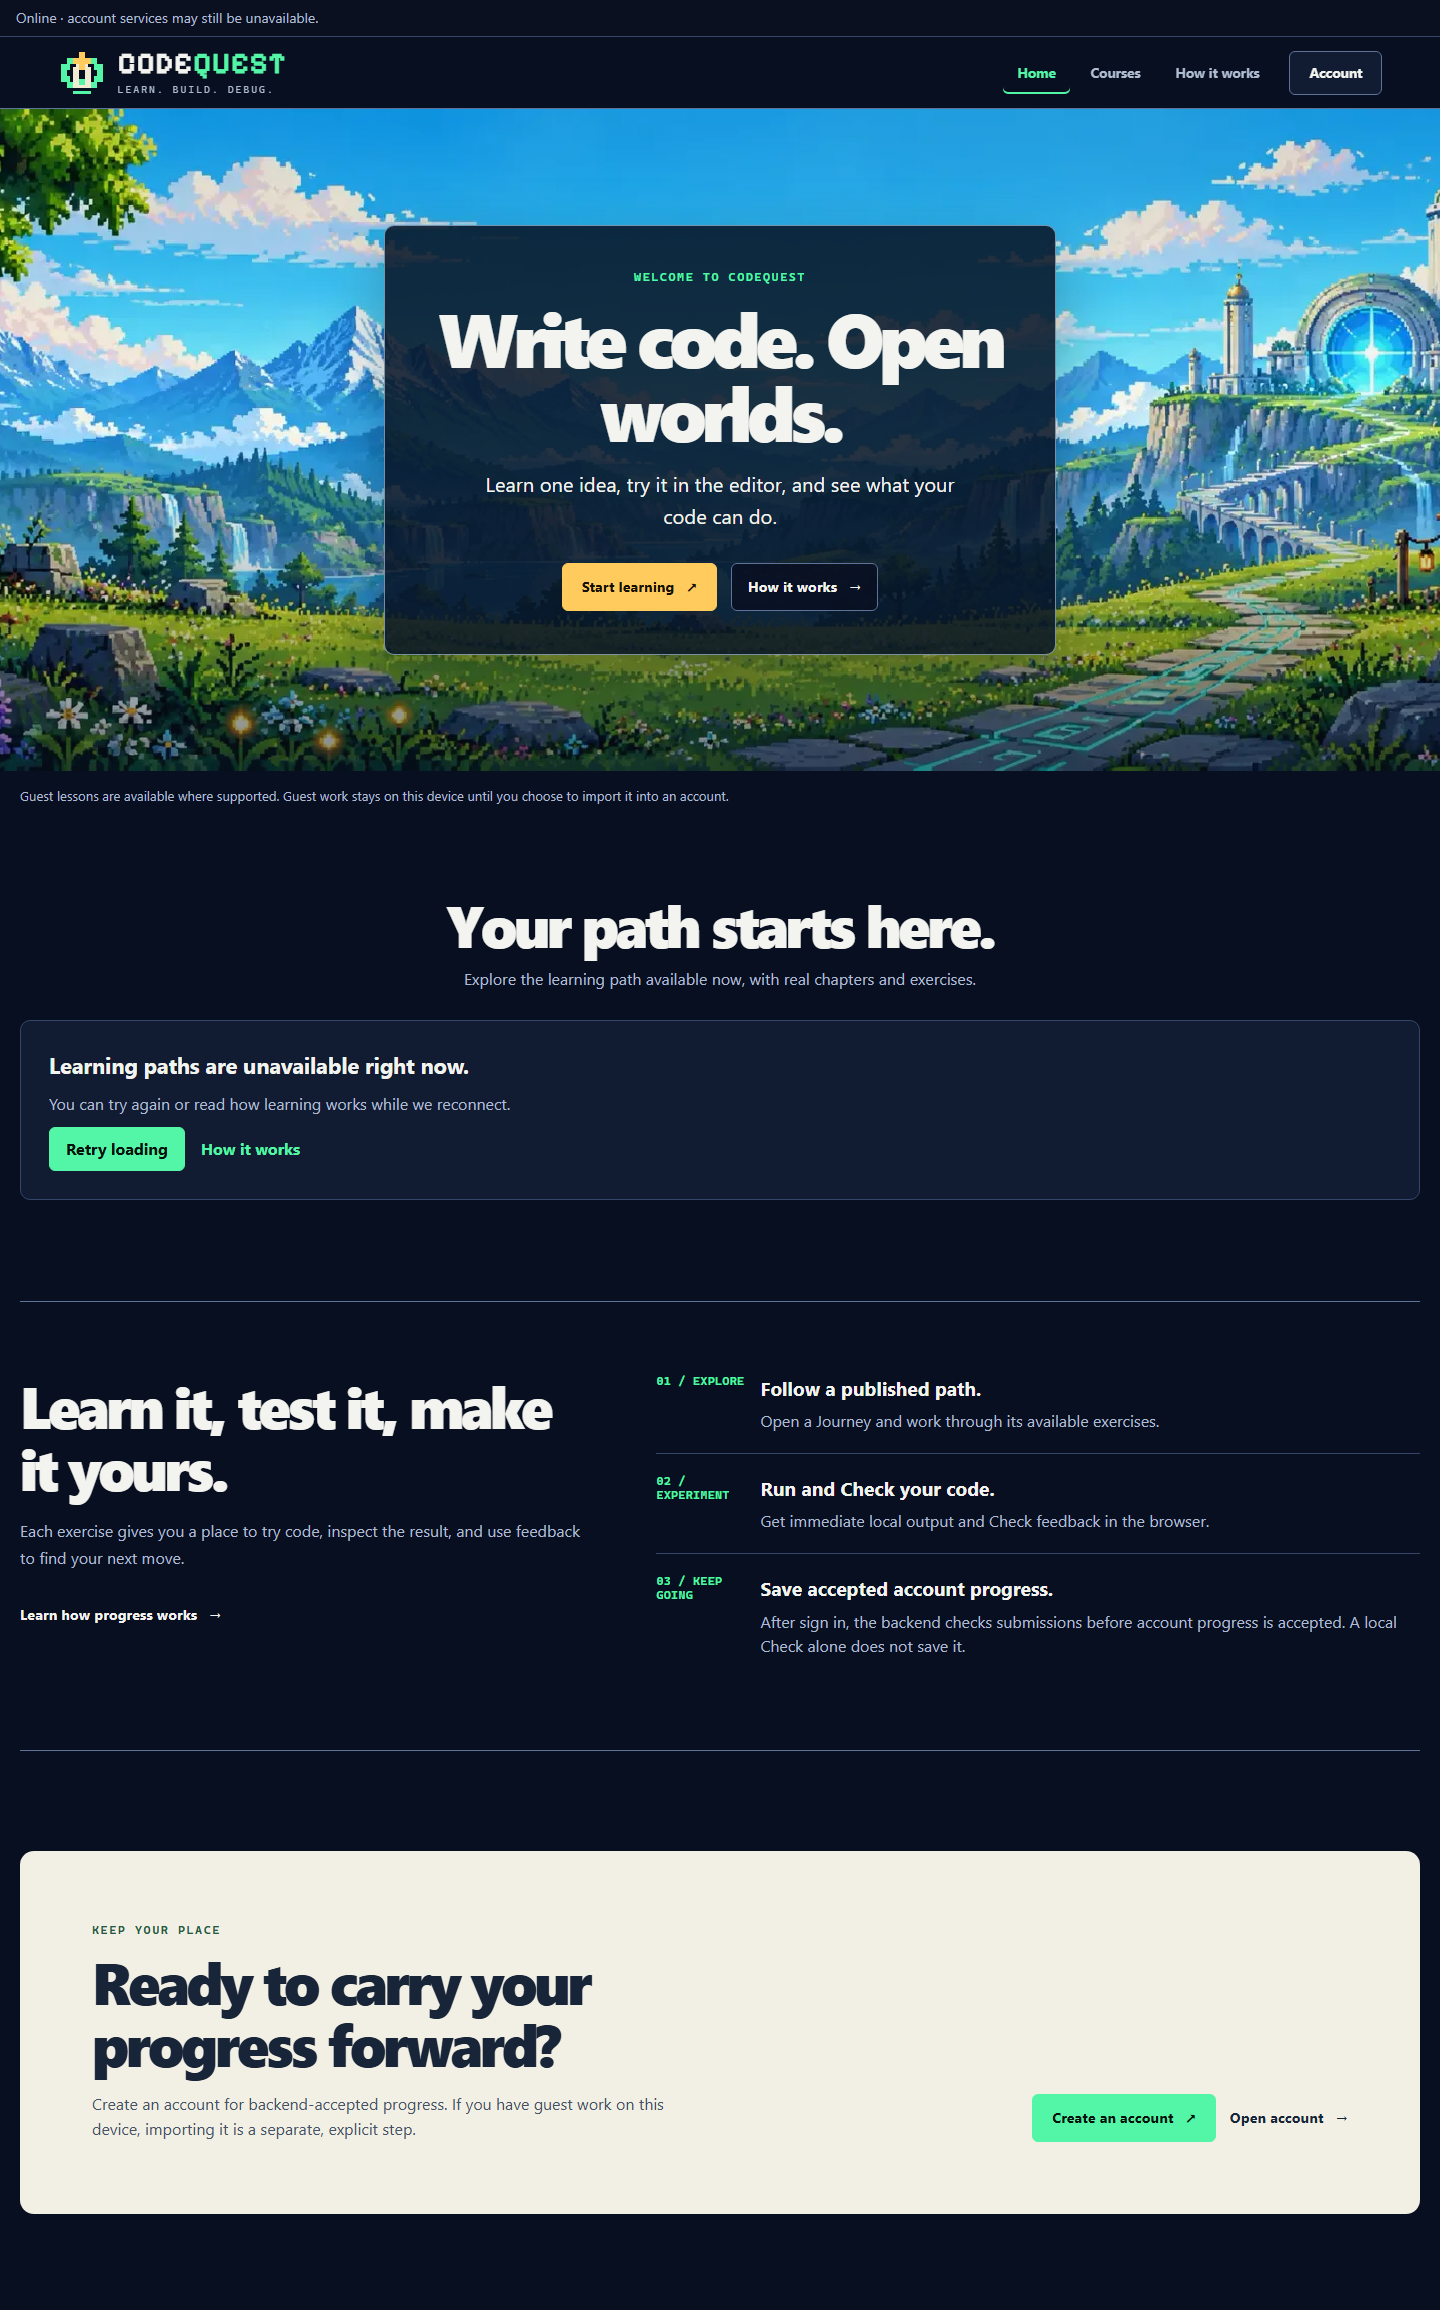
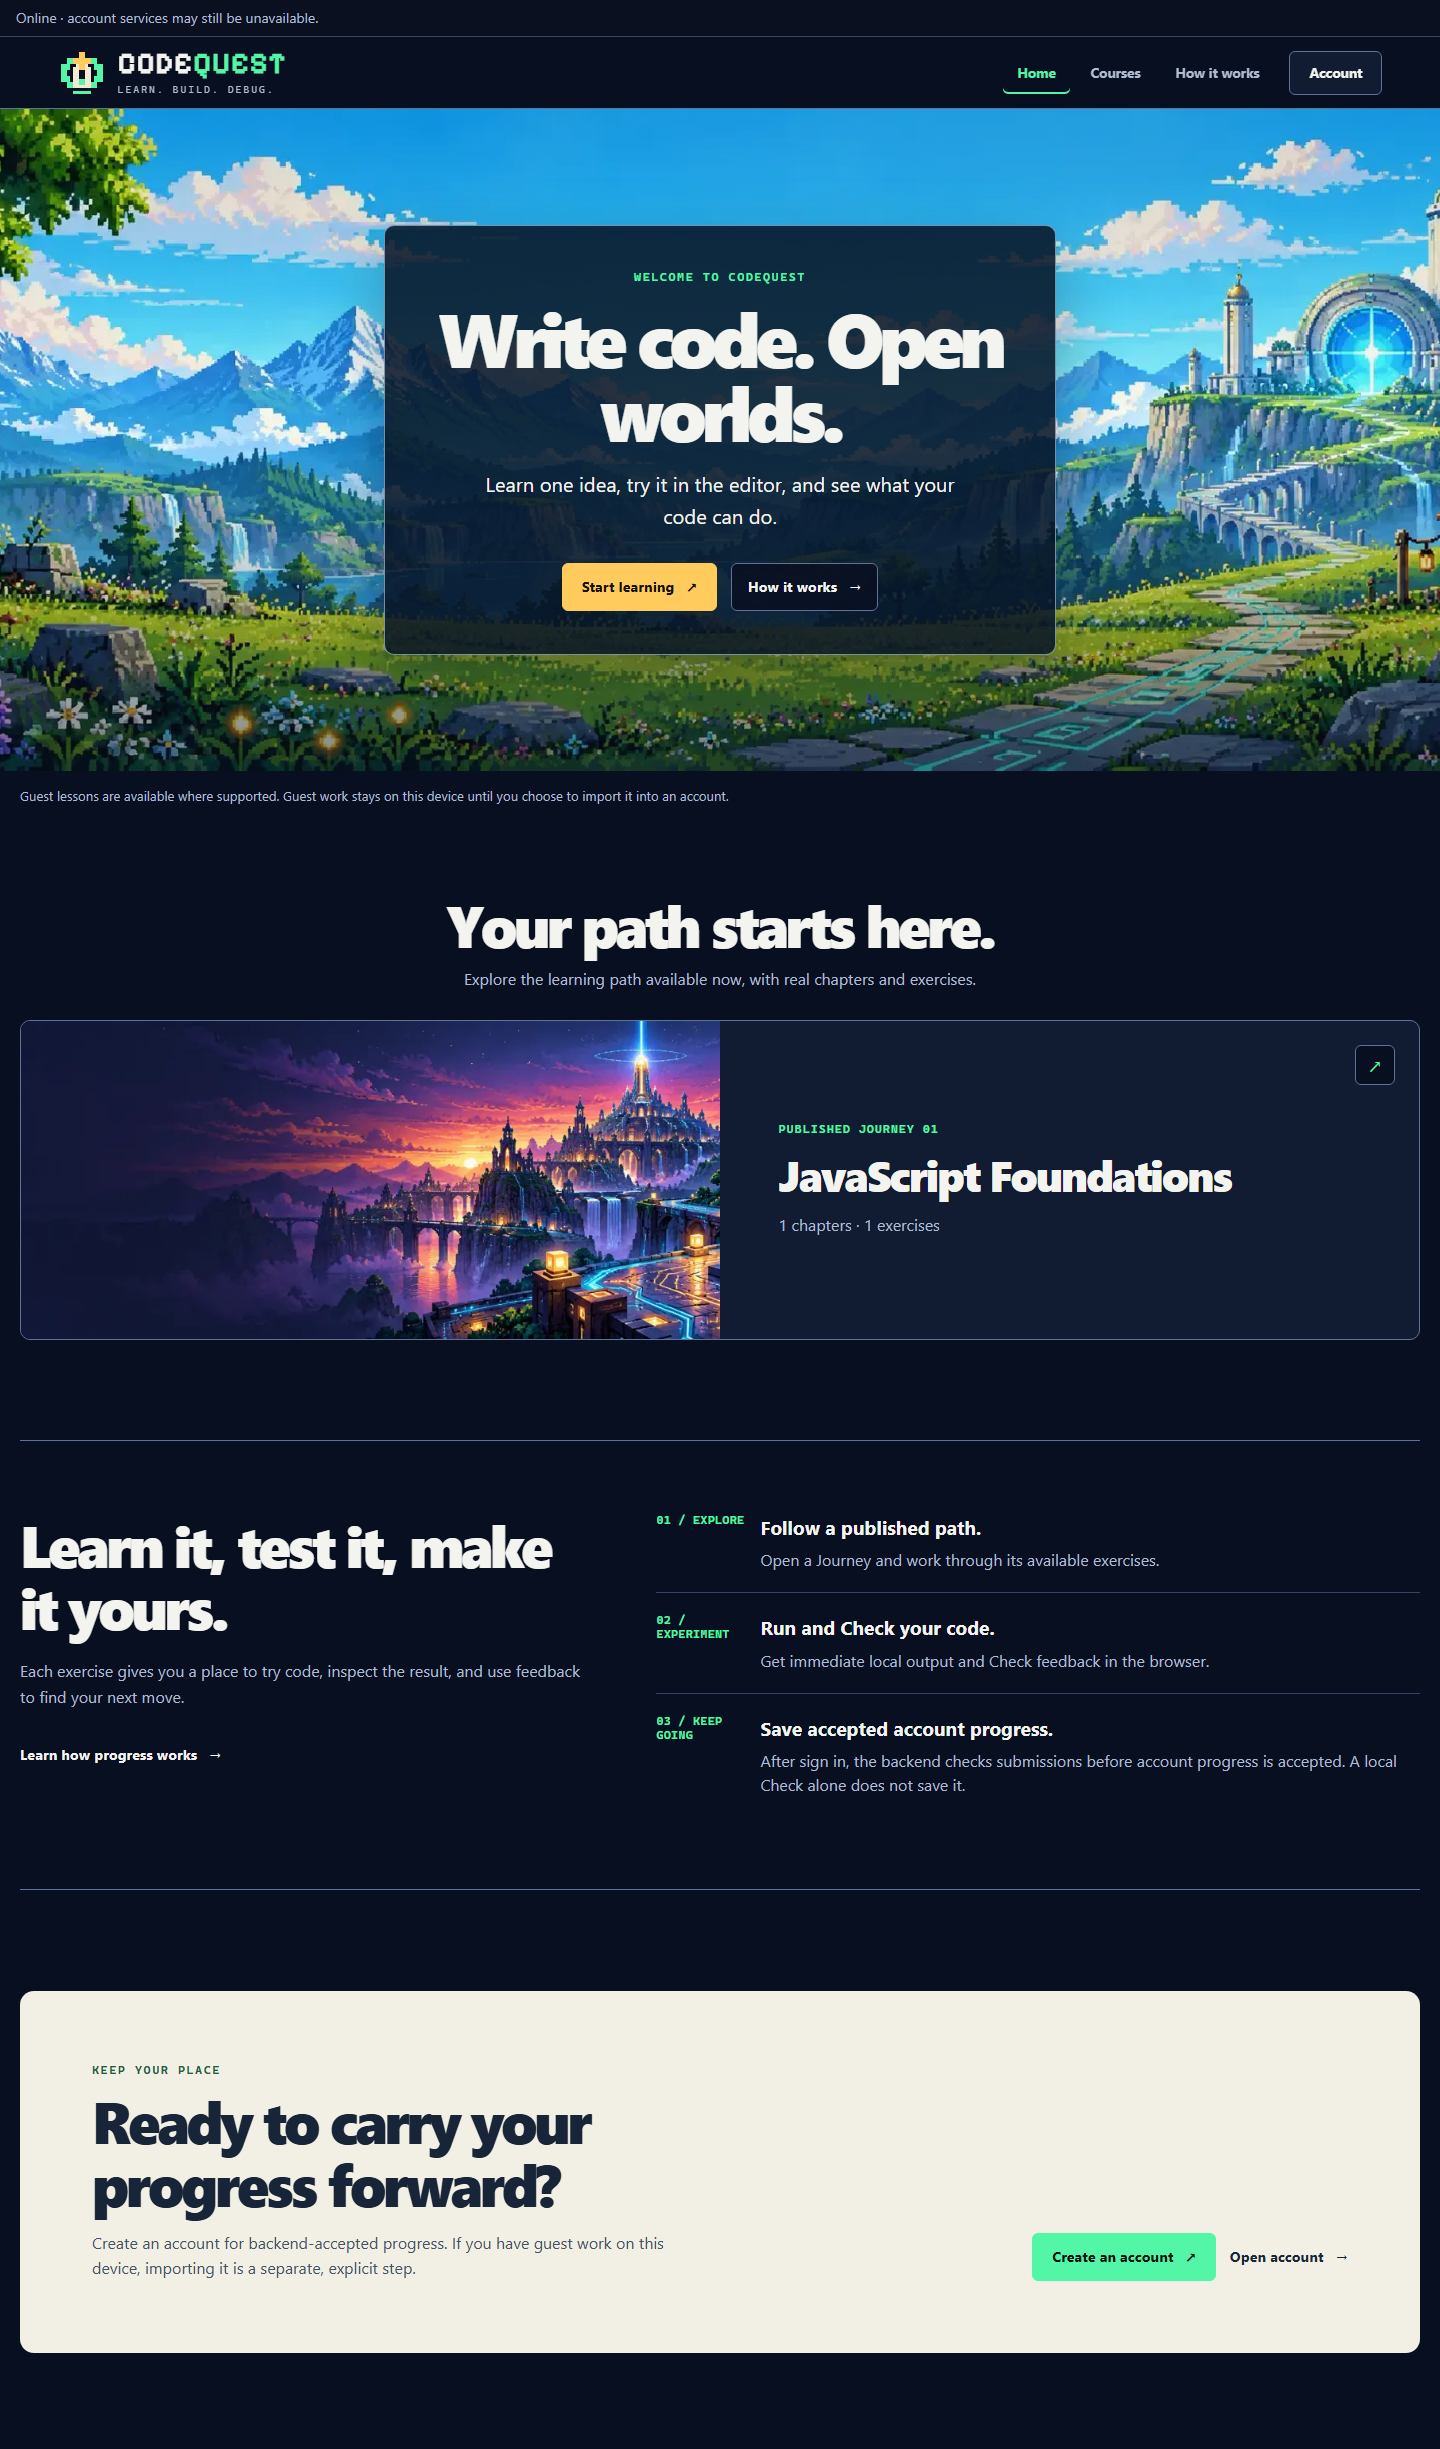
test: verify discovery visuals and fallback behavior

diff --git a/frontend/e2e/journey.spec.ts b/frontend/e2e/journey.spec.ts
@@ -48,6 +48,7 @@ async function fulfill(route: Route, json: unknown, status = 200) {
 async function installCurriculum(page: Page) {
   await page.route('http://127.0.0.1:3001/api/v1/**', async (route) => {
     const path = new URL(route.request().url()).pathname;
+    if (path === '/api/v1/journeys') return fulfill(route, [journeySummary]);
     if (path === '/api/v1/catalog/courses') return fulfill(route, [course]);
     if (path === '/api/v1/catalog/courses/javascript-foundations')
       return fulfill(route, {
@@ -187,6 +188,12 @@ test('Course catalog excludes unpublished courses and recovers from an API error
 test('discovery screens reflow across review widths', async ({ page }) => {
   test.setTimeout(180_000);
   await installCurriculum(page);
+  const pageErrors: string[] = [];
+  const consoleErrors: string[] = [];
+  page.on('pageerror', (error) => pageErrors.push(error.message));
+  page.on('console', (message) => {
+    if (message.type() === 'error') consoleErrors.push(message.text());
+  });
   const routes = [
     { name: 'home', path: '/', heading: 'Write code. Open worlds.' },
     { name: 'catalog', path: '/courses', heading: 'Choose your next world.' },
@@ -205,16 +212,56 @@ test('discovery screens reflow across review widths', async ({ page }) => {
     await page.setViewportSize({ width, height: 900 });
     for (const route of routes) {
       await page.goto(route.path);
-      await expect(page.getByRole('heading', { level: 1, name: route.heading })).toBeVisible();
-      await page.addStyleTag({ content: 'nextjs-portal { display: none !important; }' });
+      await expect(
+        page.getByRole('heading', { level: 1, name: route.heading }),
+      ).toBeVisible();
+      await page.addStyleTag({
+        content: 'nextjs-portal { display: none !important; }',
+      });
       await page.screenshot({
         path: `test-results/composition-${route.name}-${width}.png`,
         fullPage: true,
       });
+      await expect
+        .poll(() =>
+          page
+            .locator('img')
+            .first()
+            .evaluate(
+              (image: HTMLImageElement) =>
+                image.complete && image.naturalWidth > 0,
+            ),
+        )
+        .toBe(true);
       expect(
         await page.evaluate(() => document.documentElement.scrollWidth),
         `${route.name} at ${width}px`,
       ).toBeLessThanOrEqual(width);
     }
   }
+  expect(pageErrors).toEqual([]);
+  expect(consoleErrors).toEqual([]);
+});
+
+test('world image failure keeps discovery text and actions available', async ({
+  page,
+}) => {
+  await installCurriculum(page);
+  await page.route('**/assets/design-system/worlds/*.webp', (route) =>
+    route.abort(),
+  );
+  await page.goto('/');
+  await expect(
+    page.getByRole('heading', { name: 'Write code. Open worlds.' }),
+  ).toBeVisible();
+  await expect(
+    page.getByRole('link', { name: /Start learning/ }),
+  ).toBeVisible();
+  await page.goto('/courses');
+  await expect(
+    page.getByRole('heading', { name: 'Choose your next world.' }),
+  ).toBeVisible();
+  await expect(
+    page.getByRole('searchbox', { name: 'Search courses' }),
+  ).toBeVisible();
 });

diff --git a/docs/learning-discovery-composition.md b/docs/learning-discovery-composition.md
@@ -18,3 +18,30 @@ This record guides the production Home, catalog, Journey, and Course revision un
 ## Interaction and truth contract
 
 The Home and catalog render only backend-published public data. Search, filters, empty and failure states, direct Course links, and stable identities remain. The Journey and Course keep backend ordering and semantic lists. The Course context area may display only existing owner-scoped account progress or clearly labeled device-local guest facts; it cannot infer saved completion, XP, or unlocks. An unavailable protected read stays visibly unavailable. Desktop can pair the chapter path with context; tablet and mobile restore a single readable order without hiding locked explanations or shrinking targets.
+
+## Implemented hierarchy
+
+- **Home:** a daylight world scene frames the primary entry to the published catalog. The first published Journey follows directly below, with compact exercise-flow and account explanations. The server-supplied Journey list alone determines which path appears; loading, empty, and error states stay explicit.
+- **Shared navigation:** real Home, Courses, onboarding, and Account destinations remain keyboard-accessible. The desktop active route uses an underline and the Account destination has a separate treatment. The mobile menu retains Escape dismissal and focus return. No unimplemented destination is advertised.
+- **Catalog:** a shorter illustrated introduction leads to search, topic filtering, and an API-backed Course list. One published Course receives a full-width entry; further published Courses use the same list without manufactured cards.
+- **Journey:** a shared illustrated introduction places source-backed outcomes alongside the Journey identity. An ordered Course map follows with stable links and backend positions.
+- **Course:** the banner introduces a chapter path. Desktop places chapter and exercise links beside a distinct learner-context panel; narrow screens place the context before the path. Account completion and availability come only from an owner-scoped protected read. Device-local guest work is labeled provisional. A failed protected read explicitly withholds availability instead of implying completion or an unlock.
+
+## Browser review evidence
+
+The following synthetic-curriculum captures show implementation commit `97d168c` on the Apply branch. They verify composition and responsive behavior; they are not hosted data, real account acceptance, or founder acceptance.
+
+| Route | 1440 px | 390 px |
+| --- | --- | --- |
+| Home | [Desktop](frontend-evidence/composition-home-1440.png) | [Mobile](frontend-evidence/composition-home-390.png) |
+| Catalog | [Desktop](frontend-evidence/composition-catalog-1440.png) | [Mobile](frontend-evidence/composition-catalog-390.png) |
+| Journey | [Desktop](frontend-evidence/composition-journey-1440.png) | [Mobile](frontend-evidence/composition-journey-390.png) |
+| Course | [Desktop](frontend-evidence/composition-course-1440.png) | [Mobile](frontend-evidence/composition-course-390.png) |
+
+The browser reflow sweep also captured all four routes at 1280, 820, and 320 CSS pixels in local test output and found no document overflow. Screenshots hide only the framework's development indicator. The test retains the public API fixture, real route navigation, heading checks, and overflow assertions. The local fixture has one Course and one exercise, so the images cannot establish visual density for later multi-Course publication.
+
+## Verification and remaining gate
+
+On 2026-10-03 the Apply branch passed `pnpm test` (including 426 frontend tests), `pnpm lint`, `pnpm typecheck`, `pnpm build`, `pnpm api:check`, and `openspec validate refine-learning-discovery-composition --strict`. The Home and Journey Chromium browser suites passed after selectors were updated for the new visible copy. The Chromium accessibility suite's keyboard, contrast, reduced-motion, target-size, and reflow checks passed; one initial run failed solely on the retired Home link label and the focused rerun passed after correction. The 20-route-width capture test passed with no horizontal document overflow. No API contract or backend application behavior changed.
+
+The founder visual acceptance row for R05 remains **open**. These local captures use synthetic curriculum and cannot prove live published-content density, real Auth, or hosted behavior. R06 implementation remains gated by the existing acceptance workflow.

diff --git a/openspec/changes/refine-learning-discovery-composition/tasks.md b/openspec/changes/refine-learning-discovery-composition/tasks.md
@@ -7,21 +7,21 @@
 
 ## 2. Home and shared entry
 
-- [ ] 2.1 Recompose the Home opening scene and published-learning entry using the existing public API result; verify loading/empty/error/one-Journey tests and browser captures at desktop and mobile widths.
-- [ ] 2.2 Refine shared navigation and Home supporting sections around real destinations and first learning action; verify keyboard/Escape/focus, visible targets, reduced motion, and update the frontend design record for the implemented pattern.
+- [x] 2.1 Recompose the Home opening scene and published-learning entry using the existing public API result; verify loading/empty/error/one-Journey tests and browser captures at desktop and mobile widths.
+- [x] 2.2 Refine shared navigation and Home supporting sections around real destinations and first learning action; verify keyboard/Escape/focus, visible targets, reduced motion, and update the frontend design record for the implemented pattern.
 
 ## 3. Catalog and Journey discovery
 
-- [ ] 3.1 Give the catalog a compact illustrated introduction and a substantial single-Course treatment that scales to multiple published Courses; verify search/filter/reset/failure tests and browser layouts without unpublished cards.
-- [ ] 3.2 Recompose the Journey overview as an ordered world entry into its real Courses; verify public/protected/guest state tests, link identity, and desktop/mobile captures, then document the route's hierarchy.
+- [x] 3.1 Give the catalog a compact illustrated introduction and a substantial single-Course treatment that scales to multiple published Courses; verify search/filter/reset/failure tests and browser layouts without unpublished cards.
+- [x] 3.2 Recompose the Journey overview as an ordered world entry into its real Courses; verify public/protected/guest state tests, link identity, and desktop/mobile captures, then document the route's hierarchy.
 
 ## 4. Course learning path
 
-- [ ] 4.1 Recompose the Course banner and chapter list into a connected readable progression path with existing semantic headings and links; verify chapter/quest order, locked explanations, focus, and no narrow-screen overflow.
-- [ ] 4.2 Add a distinct Course learner-context area using only existing protected or labeled guest-local facts; verify account, guest, failed-protected-read, and incomplete-data cases without fabricated progress or rewards, and document its authority boundary.
+- [x] 4.1 Recompose the Course banner and chapter list into a connected readable progression path with existing semantic headings and links; verify chapter/quest order, locked explanations, focus, and no narrow-screen overflow.
+- [x] 4.2 Add a distinct Course learner-context area using only existing protected or labeled guest-local facts; verify account, guest, failed-protected-read, and incomplete-data cases without fabricated progress or rewards, and document its authority boundary.
 
 ## 5. Integrated visual review
 
-- [ ] 5.1 Run root lint, typecheck, tests, build, relevant Home/Journey/Course and accessibility browser suites, and strict change validation; record exact commands, results, and API-drift disposition.
-- [ ] 5.2 Capture and inspect final CodeQuest Home/catalog/Journey/Course at 1440, 1280, 820, 390, and 320 CSS pixels against the exact implementation commit; verify images, controls, console errors, focus, reduced motion, fallback, and overflow, then link evidence in the review record.
-- [ ] 5.3 Review the final diff for original assets, truthful publication/owner states, route stability, R06 separation, and Phase 38 NO GO; leave R05 founder acceptance open until the founder explicitly accepts the final build.
+- [x] 5.1 Run root lint, typecheck, tests, build, relevant Home/Journey/Course and accessibility browser suites, and strict change validation; record exact commands, results, and API-drift disposition.
+- [x] 5.2 Capture and inspect final CodeQuest Home/catalog/Journey/Course at 1440, 1280, 820, 390, and 320 CSS pixels against the exact implementation commit; verify images, controls, console errors, focus, reduced motion, fallback, and overflow, then link evidence in the review record.
+- [x] 5.3 Review the final diff for original assets, truthful publication/owner states, route stability, R06 separation, and Phase 38 NO GO; leave R05 founder acceptance open until the founder explicitly accepts the final build.
